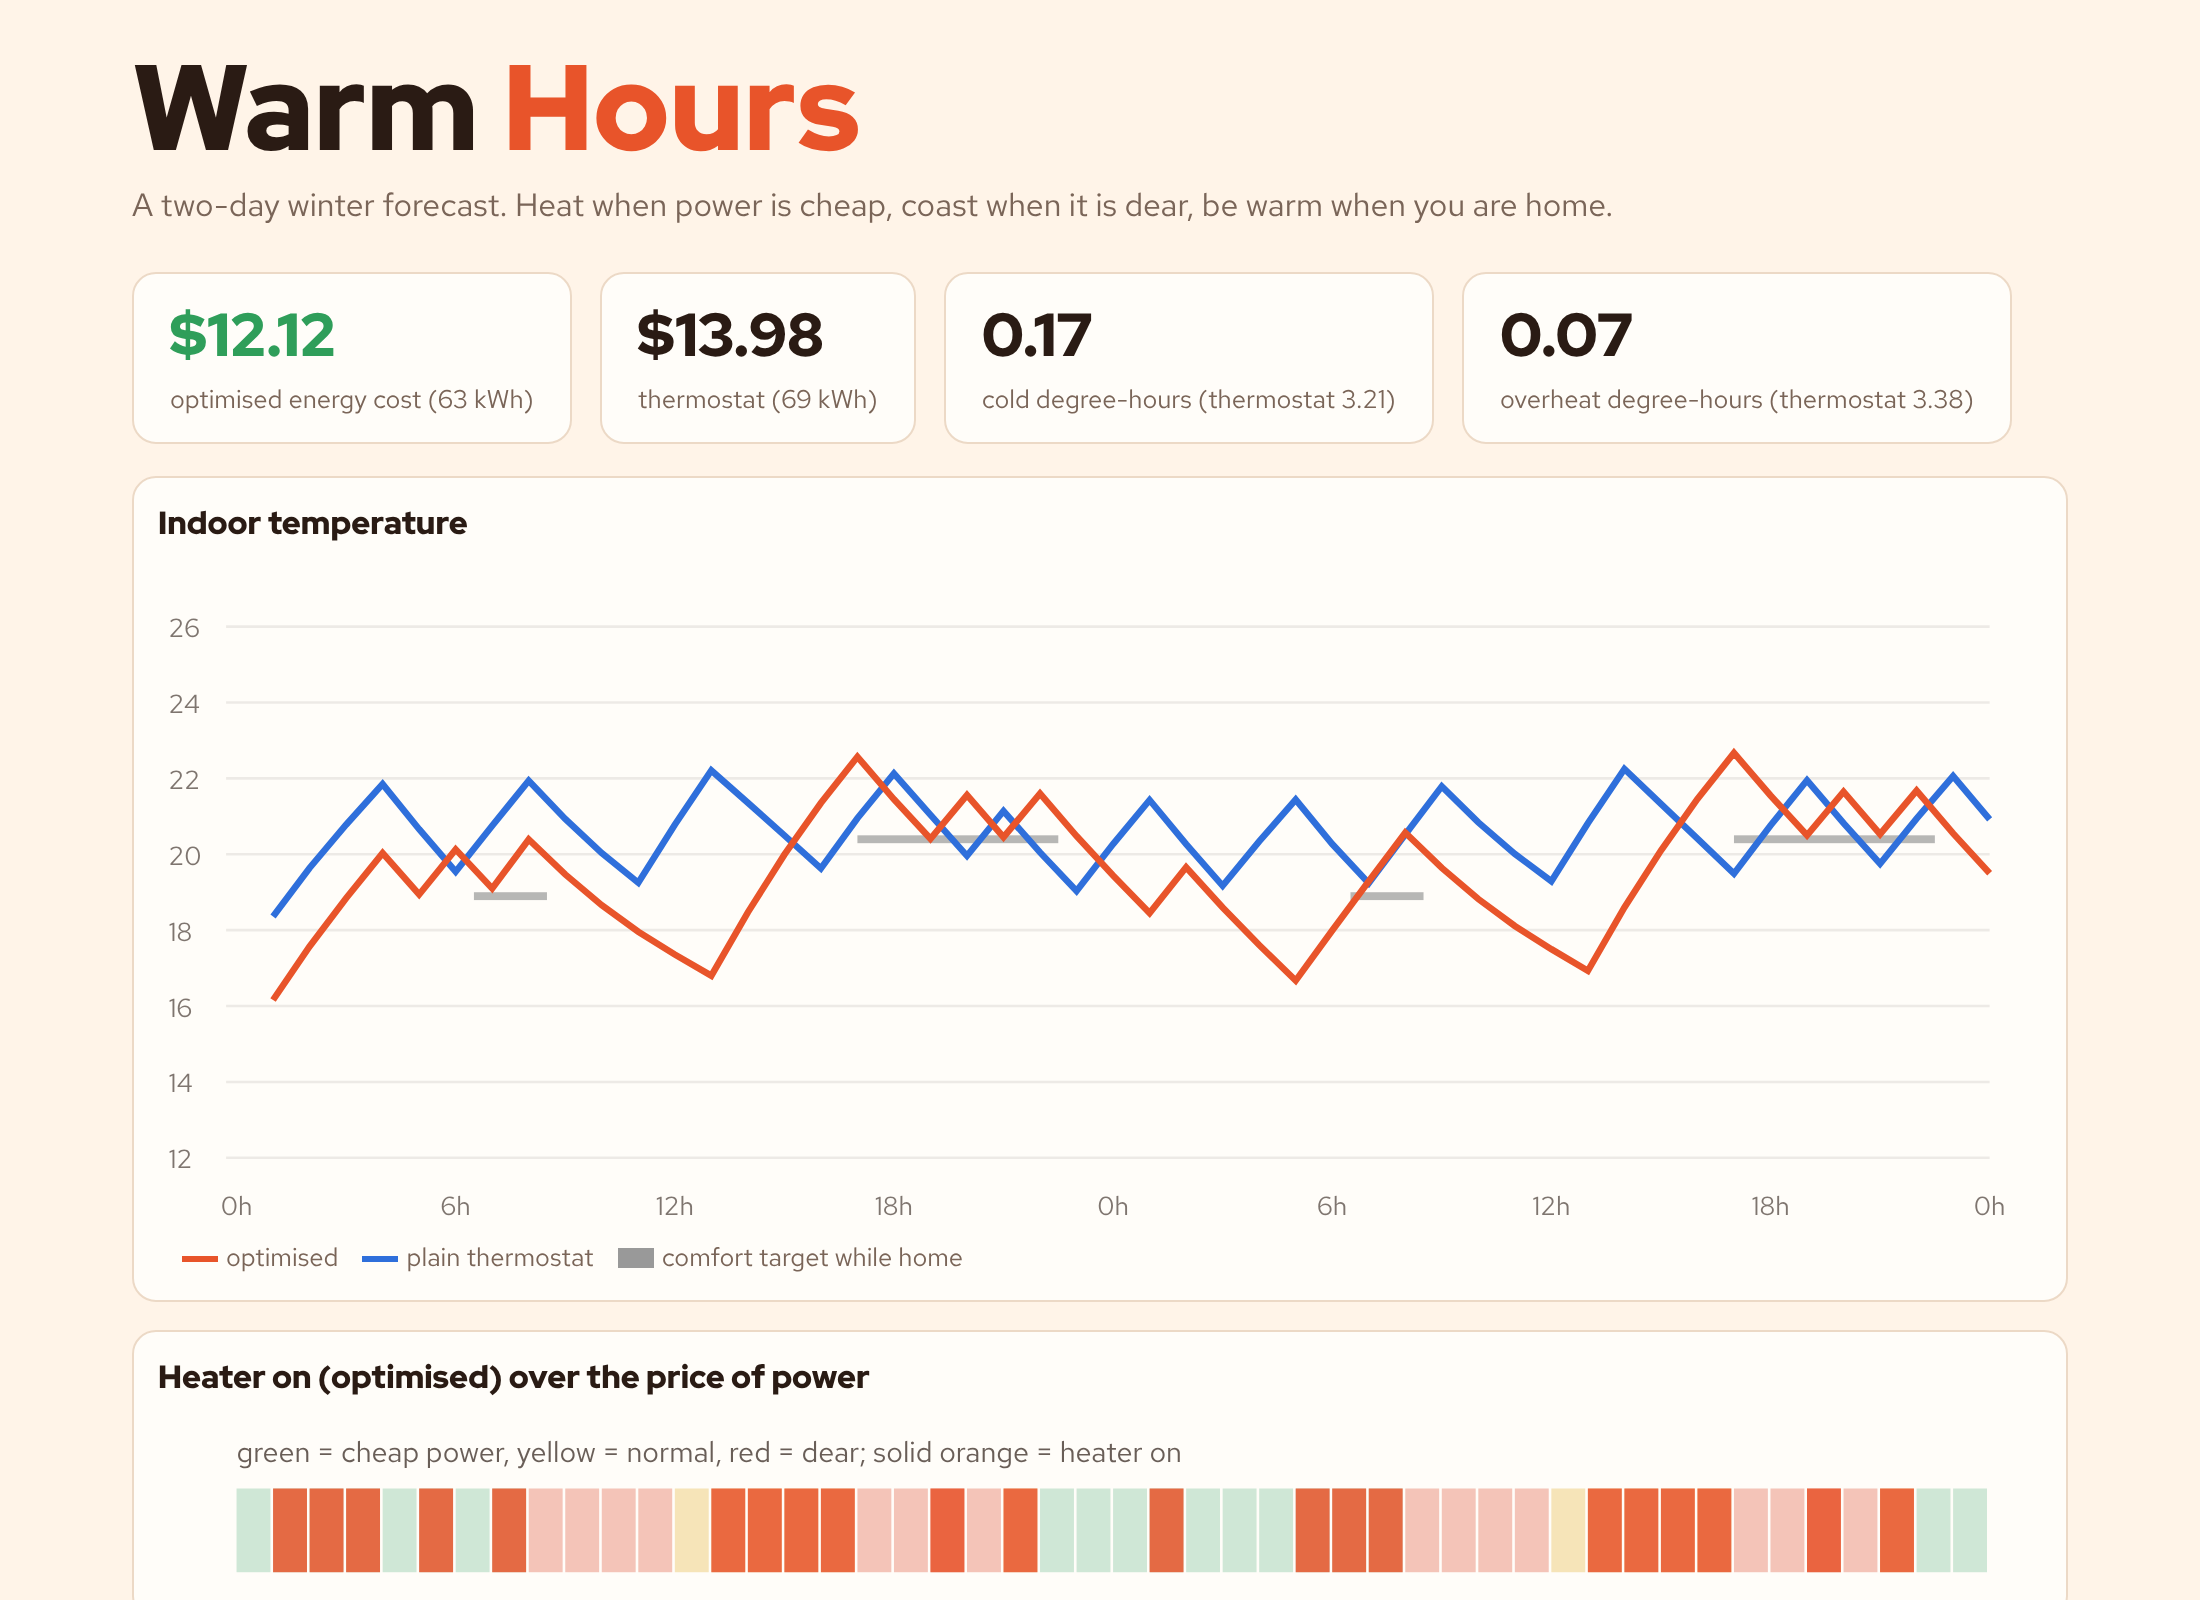
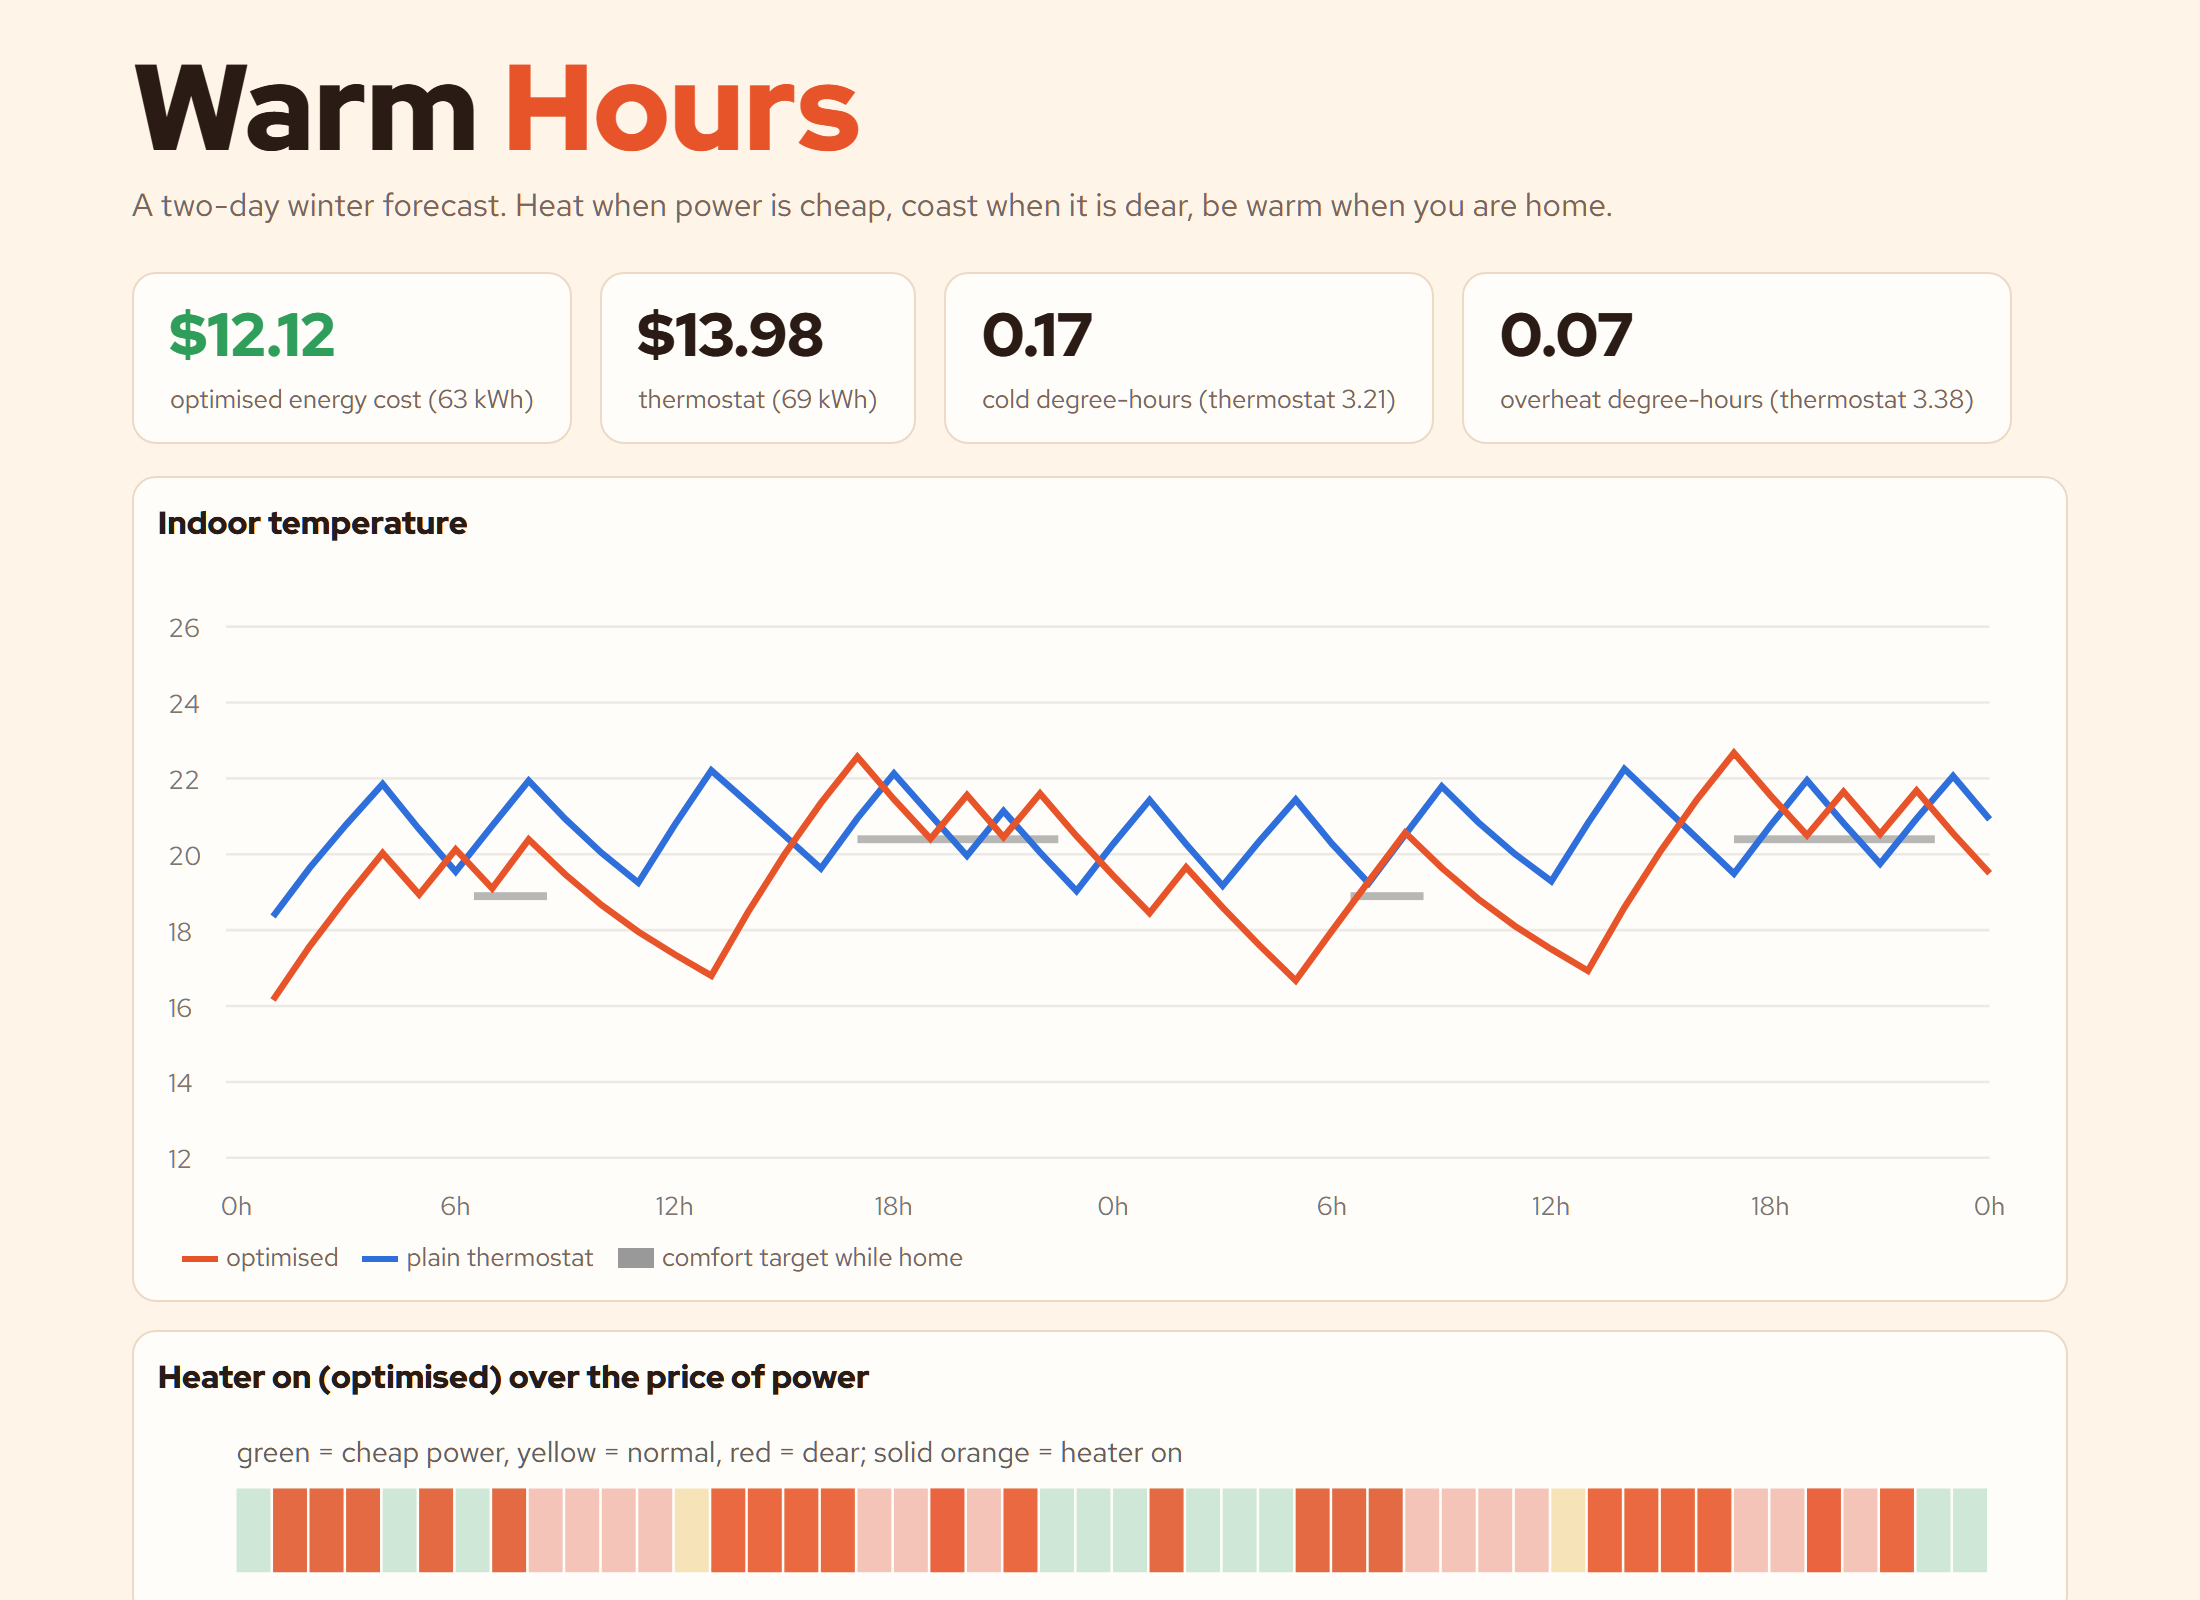
Improve heating-schedule-optimizer

diff --git a/static/index.html b/static/index.html
@@ -16,7 +16,7 @@ svg{width:100%;min-width:640px;height:auto;display:block}.leg{font-size:.8rem;co
 <div class="panel"><h2>Heater on (optimised) over the price of power</h2><svg id="h" viewBox="0 0 720 70" role="img" aria-label="Heater schedule"></svg></div></main>
 <script>
 const $=i=>document.getElementById(i),X=h=>30+h/48*670,Y=t=>230-(t-12)*14.5;
-async function go(){const day=await (await fetch("/day")).json();const r=await (await fetch("/plan",{method:"POST",headers:{"Content-Type":"application/json"},body:JSON.stringify({})})).json();
+async function go(){try{const day=await (await fetch("/day")).json();const r=await (await fetch("/plan",{method:"POST",headers:{"Content-Type":"application/json"},body:JSON.stringify({})})).json();
 const o=r.optimised,t=r.thermostat;
 $("st").innerHTML=`<div class="s"><b class="g">$${o.energy_cost.toFixed(2)}</b><span>optimised energy cost (${o.kwh} kWh)</span></div><div class="s"><b>$${t.energy_cost.toFixed(2)}</b><span>thermostat (${t.kwh} kWh)</span></div><div class="s"><b>${o.cold_degree_hours}</b><span>cold degree-hours (thermostat ${t.cold_degree_hours})</span></div><div class="s"><b>${o.overheat_degree_hours}</b><span>overheat degree-hours (thermostat ${t.overheat_degree_hours})</span></div>`;
 let g="";for(let d=0;d<2;d++)for(const [a,b,tg] of day.comfort)g+=`<rect x="${X(a+24*d)}" y="${Y(tg)}" width="${X(b)-X(a)}" height="3" fill="#999" opacity=".7"/>`;
@@ -25,6 +25,6 @@ for(let h=0;h<=48;h+=6)g+=`<text x="${X(h)}" y="252" font-size="10" fill="curren
 const line=(a,c)=>`<polyline fill="none" stroke="${c}" stroke-width="2.5" points="${a.map((v,i)=>X(i+1)+","+Y(v)).join(" ")}"/>`;
 $("c").innerHTML=g+line(t.temps,"var(--cool)")+line(o.temps,"var(--hot)");
 const col=p=>p<=.15?"var(--cheap)":p<=.25?"var(--mid)":"var(--dear)";
-$("h").innerHTML=day.price.map((p,i)=>`<rect x="${X(i)}" y="30" width="${670/48-1}" height="32" fill="${col(p)}"/>`+(o.schedule[i]?`<rect x="${X(i)}" y="30" width="${670/48-1}" height="32" fill="var(--hot)" opacity=".85"/>`:"")).join("")+`<text x="30" y="20" font-size="11" fill="currentColor" opacity=".7">green = cheap power, yellow = normal, red = dear; solid orange = heater on</text>`}
+$("h").innerHTML=day.price.map((p,i)=>`<rect x="${X(i)}" y="30" width="${670/48-1}" height="32" fill="${col(p)}"/>`+(o.schedule[i]?`<rect x="${X(i)}" y="30" width="${670/48-1}" height="32" fill="var(--hot)" opacity=".85"/>`:"")).join("")+`<text x="30" y="20" font-size="11" fill="currentColor" opacity=".7">green = cheap power, yellow = normal, red = dear; solid orange = heater on</text>`}catch(e){$("st").textContent="Could not plan the heating. Refresh to try again.";}}
 go();
 </script></body></html>

diff --git a/tests/test_all.py b/tests/test_all.py
@@ -91,3 +91,7 @@ def test_api():
 
 def test_api_validation():
     assert c.post("/plan", json={"start_temp": 80}).status_code == 422
+
+
+def test_page_shows_error_message_when_plan_fails():
+    assert "Could not plan the heating" in c.get("/").text
